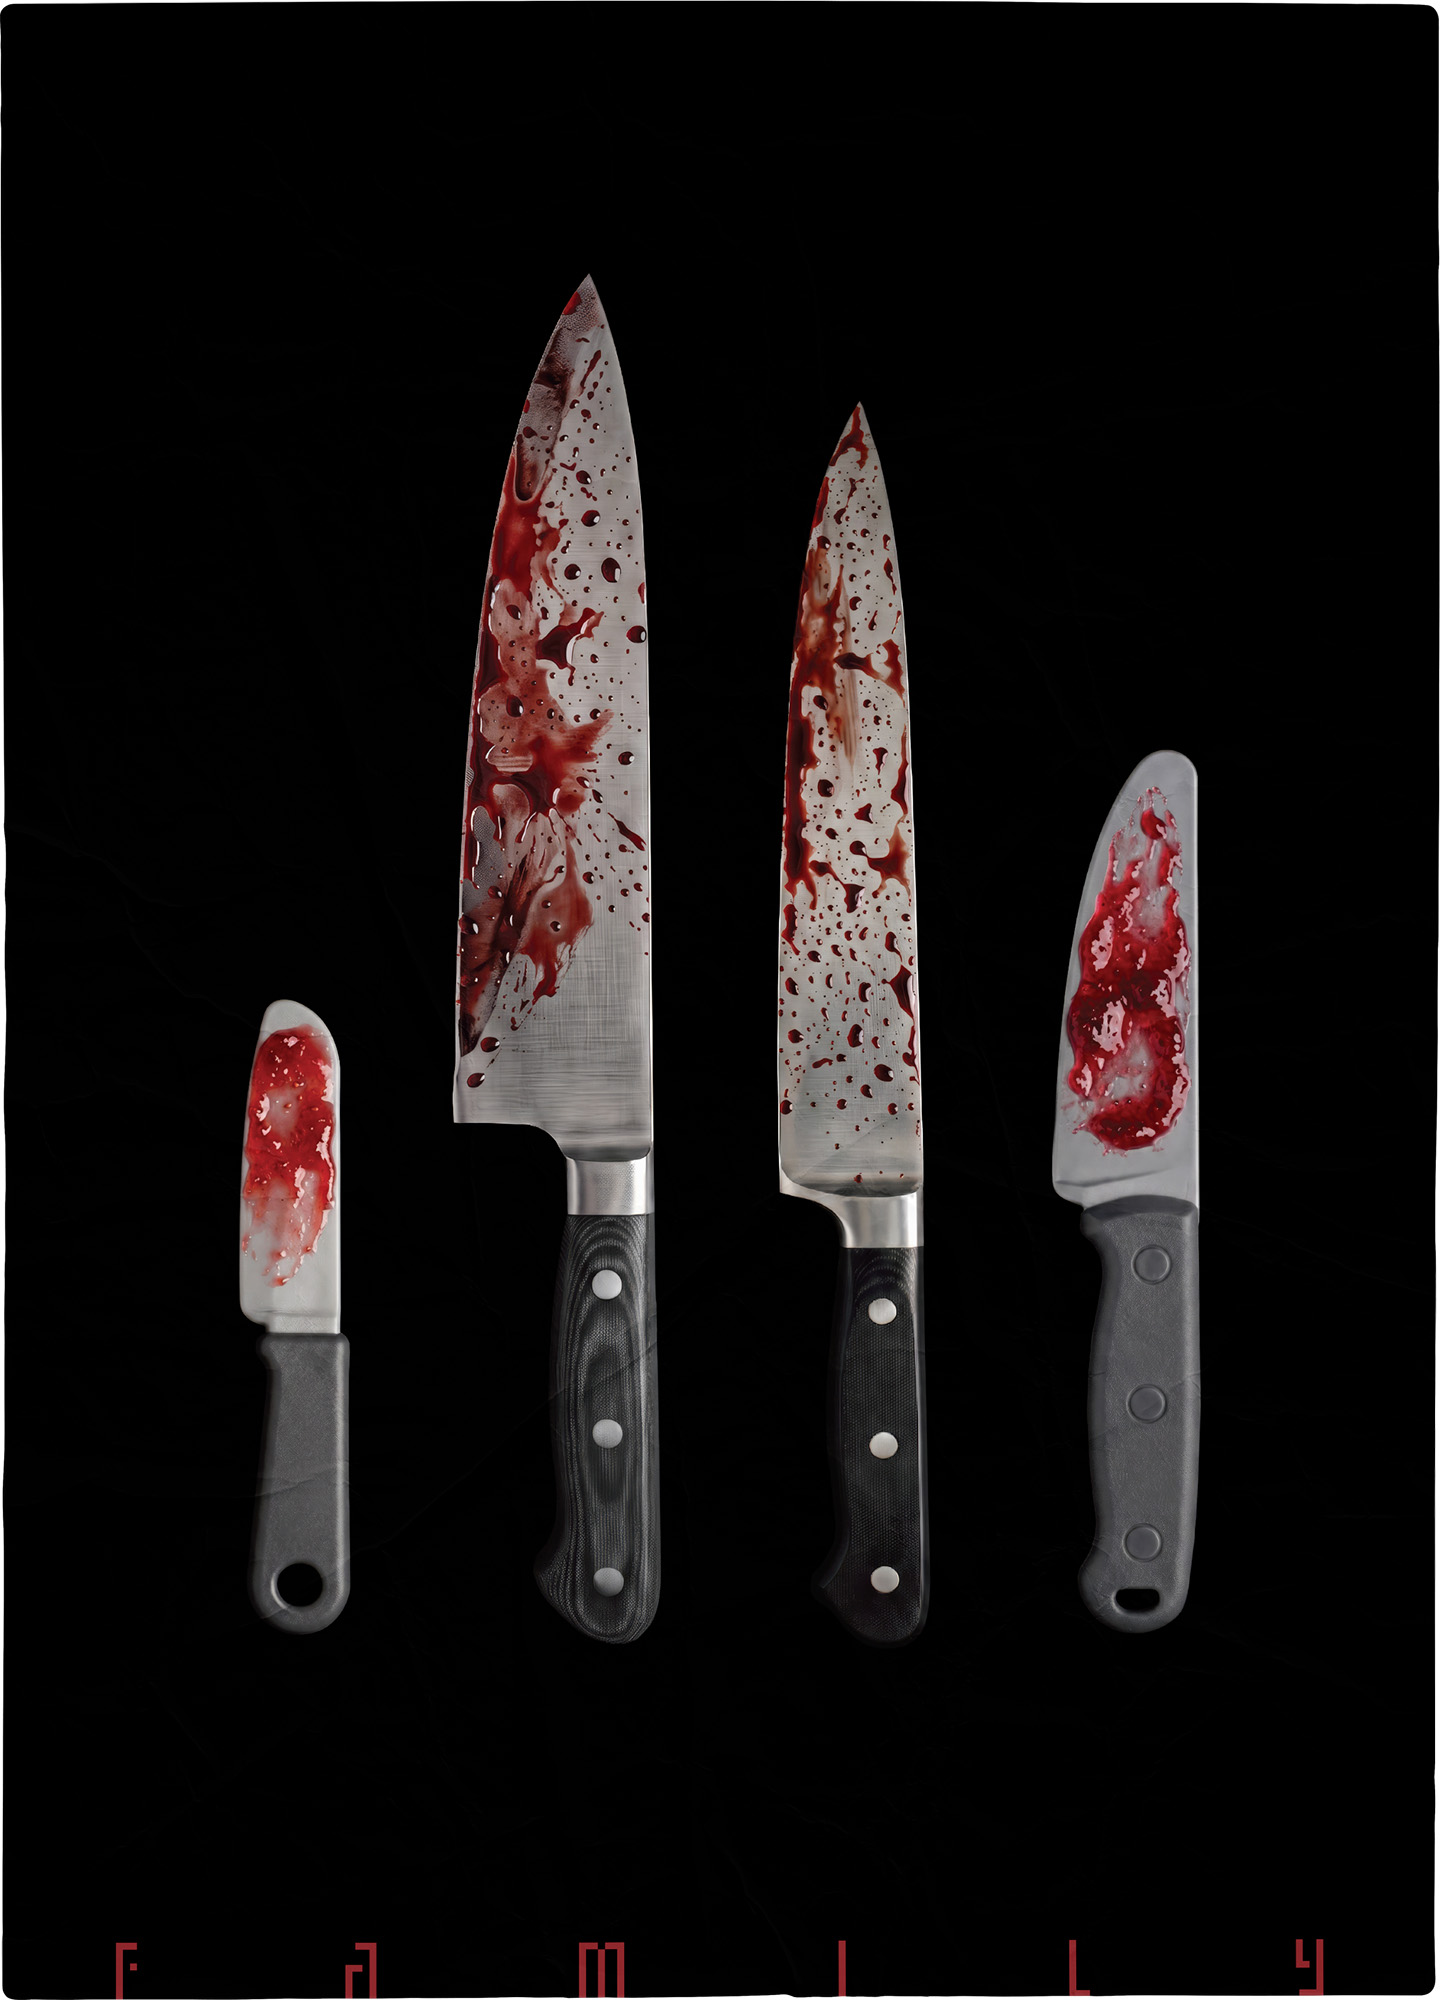
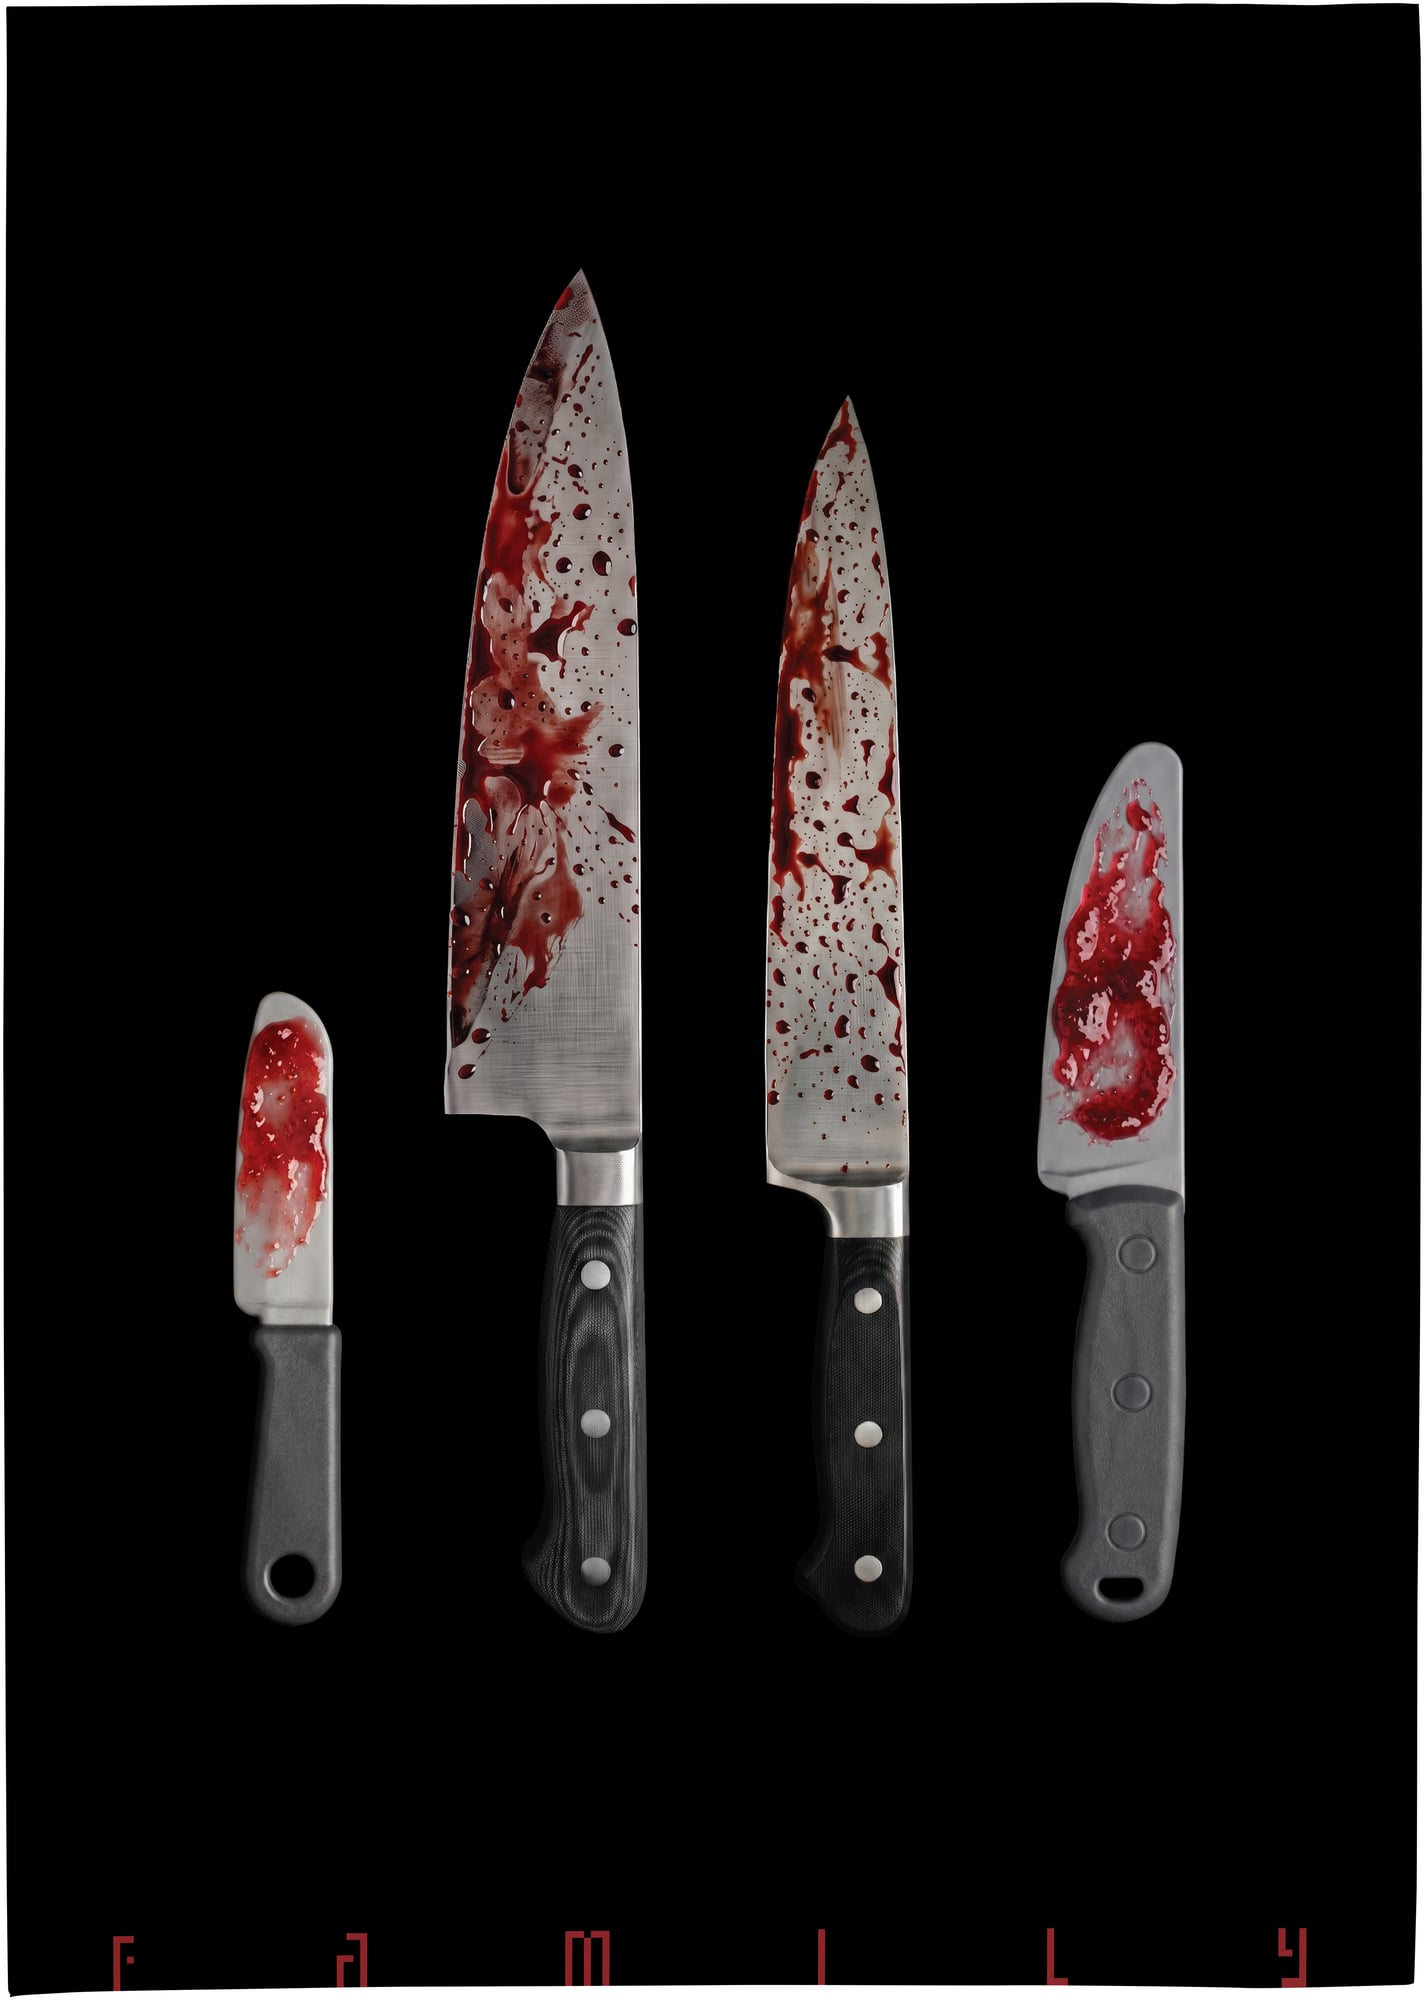
feat: optimize poster images, update poster gallery, fix canvas color issues and performance

diff --git a/data/projects.js b/data/projects.js
@@ -154,7 +154,7 @@ export const projects = [
         slug: 'post1',
         date: '2025',
         image: '/images/Poster/1_FragmentsOfLife/FragmentsOfLife_Thumbnail_Poster_GIF.gif',
-        colSpan: 4,
+        colSpan: 12,
         isFullWidth: false,
         longDescription: 'Commissioned by the Bilkent Fine Arts department, this project involved developing a visual identity that symbolizes the fragments of human experience. The resulting series of posters maintains a unified identity while showcasing various interpretations. This was a collaborative project created by Melih Uçan, Reyyan Fidan, Erdem Bozdemir, and Yavuz Dağdelen.',
         details: [
@@ -164,37 +164,18 @@ export const projects = [
         ]
     },
     {
-        id: 9,
-        title: 'Gra.Typog Society Event Posters',
+        id: 20,
+        title: 'Szymon Szymankiewicz Poster Design Workshop',
         category: 'Poster',
-        description: 'Visual Communication and Engagement',
-        slug: 'post2',
-        date: '2024-2025',
-        image: '/images/Poster/2_Club/Club_Thumbnail_Poster_GIF.gif',
-        colSpan: 4,
-        longDescription: 'Created for the Bilkent Graphic Design and Typography Society, these posters were designed to maximize event attendance through attention-grabbing visuals. To effectively attract attention from a distance, the series uses bold typography and minimalist layouts, delivering clear information through simplicity often developed in short timeframes.',
-        details: [
-            { type: 'image', src: '/images/Poster/2_Club/Club1.jpg', isFullscreen: false },
-            { type: 'image', src: '/images/Poster/2_Club/Club2_EXTENDED.jpg', isFullscreen: true },
-        ]
-    },
-    {
-        id: 10,
-        title: 'Sibel Egemen Jazz Concert',
-        category: 'Poster',
-        description: 'Typographic Poster Project',
-        slug: 'post3',
+        description: 'Bilkent University FADA',
+        slug: 'szymon',
         date: '2025',
-        image: '/SibelEgemenUpdated.jpg',
+        image: '/images/Poster/Szymon_Poster.jpg',
         colSpan: 4,
         clickable: false,
-        longDescription: 'Developed as part of a typographic course assignment, this poster pays tribute to artist Sibel Egemen. The design captures a nostalgic atmosphere that reflects her musical identity, combining visual depth with a commitment to simplicity.',
-        details: [
-            { type: 'image', src: '/images/Poster/3_SibelEgemen/SibelEgemen1.jpg', isFullscreen: false },
-        ]
+        longDescription: 'Workshop poster designed for Szymon Szymankiewicz\'s Poster Design Workshop at Bilkent University.',
+        details: []
     },
-
-    // New Social Propaganda Posters
     {
         id: 18,
         title: 'Family',
@@ -202,7 +183,7 @@ export const projects = [
         description: 'Social Propaganda Poster',
         slug: 'family',
         date: '2025',
-        image: '/Family.jpg',
+        image: '/images/Poster/Family_Poster.jpg',
         colSpan: 4,
         clickable: false,
         longDescription: 'Social propaganda poster titled "Family".',
@@ -215,7 +196,7 @@ export const projects = [
         description: 'Social Propaganda Poster',
         slug: 'together',
         date: '2025',
-        image: '/Together.jpg',
+        image: '/images/Poster/Together_Poster.jpg',
         colSpan: 4,
         clickable: false,
         longDescription: 'Social propaganda poster titled "Together".',

diff --git a/scripts/optimize_posters.js b/scripts/optimize_posters.js
@@ -1,0 +1,72 @@
+const sharp = require('sharp');
+const path = require('path');
+const fs = require('fs');
+
+const posterDir = path.join(__dirname, '../public/images/Poster');
+const publicDir = path.join(__dirname, '../public');
+
+const posters = [
+  {
+    src: 'Family_Poster.png',
+    dest: 'Family_Poster.jpg',
+    publicDest: 'Family.jpg',
+  },
+  {
+    src: 'Together_Poster.png',
+    dest: 'Together_Poster.jpg',
+    publicDest: 'Together.jpg',
+  },
+  {
+    src: 'Syzmon_Poster.png',
+    dest: 'Szymon_Poster.jpg',
+    publicDest: 'Szymon.jpg',
+  },
+];
+
+async function optimizePosters() {
+  for (const item of posters) {
+    const inputPath = path.join(posterDir, item.src);
+    const outputPath = path.join(posterDir, item.dest);
+    const publicOutputPath = path.join(publicDir, item.publicDest);
+
+    if (!fs.existsSync(inputPath)) {
+      console.log(`Source file not found: ${inputPath}`);
+      continue;
+    }
+
+    const origStat = fs.statSync(inputPath);
+    console.log(`Optimizing ${item.src} (${(origStat.size / 1024 / 1024).toFixed(2)} MB)...`);
+
+    // Max 2000px from one side, JPEG format, quality 85, progressive
+    const pipeline = sharp(inputPath)
+      .resize({
+        width: 2000,
+        height: 2000,
+        fit: 'inside',
+        withoutEnlargement: true,
+      })
+      .flatten({ background: '#ffffff' })
+      .jpeg({
+        quality: 85,
+        progressive: true,
+        mozjpeg: true,
+      });
+
+    await pipeline.toFile(outputPath);
+    const newStat = fs.statSync(outputPath);
+    const meta = await sharp(outputPath).metadata();
+    console.log(`Saved ${item.dest}: ${meta.width}x${meta.height}, ${(newStat.size / 1024).toFixed(1)} KB (-${((1 - newStat.size / origStat.size) * 100).toFixed(1)}%)`);
+
+    // Also copy / save to publicDir for fallback
+    fs.copyFileSync(outputPath, publicOutputPath);
+
+    // Remove the raw PNG
+    fs.unlinkSync(inputPath);
+    console.log(`Removed raw ${item.src}`);
+  }
+}
+
+optimizePosters().catch(err => {
+  console.error('Optimization error:', err);
+  process.exit(1);
+});

diff --git a/app/work/[id]/page.js b/app/work/[id]/page.js
@@ -156,6 +156,7 @@ export default async function WorkDetails({ params }) {
                                             frameBorder="0"
                                             allow="autoplay; fullscreen; picture-in-picture; clipboard-write; encrypted-media"
                                             referrerPolicy="strict-origin-when-cross-origin"
+                                            loading="lazy"
                                             style={{ position: 'absolute', top: 0, left: 0, width: '100%', height: '100%' }}
                                             title={item.title || project.title}
                                         />
@@ -176,6 +177,7 @@ export default async function WorkDetails({ params }) {
                                             frameBorder="0"
                                             allow="autoplay; fullscreen; picture-in-picture; clipboard-write; encrypted-media"
                                             referrerPolicy="strict-origin-when-cross-origin"
+                                            loading="lazy"
                                             style={{ position: 'absolute', top: 0, left: 0, width: '100%', height: '100%' }}
                                             title={item.title || project.title}
                                         />

diff --git a/components/NavbarWrapper.js b/components/NavbarWrapper.js
@@ -22,10 +22,30 @@ export default function NavbarWrapper() {
         return () => observer.disconnect();
     }, []);
 
-    // Ana sayfa veya 404 için transparent arka plan
+    // Ana sayfa veya 404 için transparent arka plan ve sarı tema
     const isHome = pathname === '/';
+    const isYellow = isHome || isNotFound;
     const theme = 'light';
-    const transparent = isHome || isNotFound;
+    const transparent = isYellow;
+
+    useEffect(() => {
+        if (isYellow) {
+            document.documentElement.classList.add('is-yellow-page');
+            document.body.classList.add('is-yellow-page');
+        } else {
+            document.documentElement.classList.remove('is-yellow-page');
+            document.body.classList.remove('is-yellow-page');
+        }
+
+        // Dynamically update theme-color meta tag for mobile browser UI (Safari / Chrome)
+        let metaTheme = document.querySelector('meta[name="theme-color"]');
+        if (!metaTheme) {
+            metaTheme = document.createElement('meta');
+            metaTheme.setAttribute('name', 'theme-color');
+            document.head.appendChild(metaTheme);
+        }
+        metaTheme.setAttribute('content', isYellow ? '#ffd400' : '#ffffff');
+    }, [isYellow]);
 
     return <Navbar theme={theme} transparent={transparent} />;
 }

diff --git a/app/layout.js b/app/layout.js
@@ -9,13 +9,21 @@ export const metadata = {
   description: "Portfolio and Blog.",
 };
 
+export const viewport = {
+  themeColor: "#ffffff",
+  width: "device-width",
+  initialScale: 1,
+};
+
 export default function RootLayout({ children }) {
   return (
     <html lang="en">
       <head>
+        <link rel="preconnect" href="https://use.typekit.net" crossOrigin="anonymous" />
+        <link rel="preconnect" href="https://p.typekit.net" crossOrigin="anonymous" />
         <link rel="stylesheet" href="https://use.typekit.net/foj2kuj.css" />
       </head>
-      <body className="flex flex-col min-h-screen">
+      <body className="flex flex-col min-h-screen min-h-dvh bg-white">
         {/* Google Analytics */}
         <Script
           src={`https://www.googletagmanager.com/gtag/js?id=${GA_MEASUREMENT_ID}`}

diff --git a/app/globals.css b/app/globals.css
@@ -5,11 +5,10 @@
   --foreground: #171717;
 }
 
-@media (prefers-color-scheme: dark) {
-  :root {
-    --background: #0a0a0a;
-    --foreground: #ededed;
-  }
+/* Force light color scheme and white canvas */
+html {
+  color-scheme: light;
+  background-color: #ffffff;
 }
 
 /* Yatay taşmayı engelle */
@@ -21,11 +20,17 @@ body {
 
 body {
   color: var(--foreground);
-  background: var(--background);
+  background-color: var(--background);
   font-family: area-normal, sans-serif;
   font-weight: 700;
   font-style: normal;
   letter-spacing: -0.025em;
+}
+
+/* Yellow background for home page and 404 page */
+html.is-yellow-page,
+body.is-yellow-page {
+  background-color: #ffd400 !important;
 }
 
 /* Sadece küçük 'a' harfi için ss02 */

diff --git a/app/about/page.js b/app/about/page.js
@@ -16,7 +16,7 @@ export default function About() {
                 {/* Image Section - Cols 1-4 on Desktop, Full on Mobile */}
                 <div className="w-full col-span-12 lg:col-span-4 mb-8 lg:mb-0">
                     {image?.src ? (
-                        <img className="w-full aspect-square object-cover" src={image.src} alt={image.alt || 'Portrait'} />
+                        <img className="w-full aspect-square object-cover" src={image.src} alt={image.alt || 'Portrait'} decoding="async" />
                     ) : (
                         <div className="w-full aspect-square bg-gray-400"></div>
                     )}

diff --git a/components/Footer.js b/components/Footer.js
@@ -3,7 +3,7 @@ import React from 'react';
 
 export default function Footer() {
     return (
-        <footer className="w-full bg-white text-black pb-12 mt-auto font-extrabold px-5 md:px-[5%]">
+        <footer className="w-full bg-white text-black pb-12 pb-safe mt-auto font-extrabold px-5 md:px-[5%]">
             <div className="border-t border-black pt-6"></div>
             <div className="flex flex-row justify-between items-stretch gap-4 md:gap-8">
                 {/* Left Side: Copyright & Location */}

diff --git a/components/ProjectCard.js b/components/ProjectCard.js
@@ -10,6 +10,8 @@ export default function ProjectCard({ project, className = "" }) {
                     <img
                         src={project.image}
                         alt={project.title}
+                        loading="lazy"
+                        decoding="async"
                         className={`w-full h-auto object-cover transition-opacity duration-500 block ${isInteractive ? 'group-hover:opacity-90' : 'opacity-90'}`}
                     />
                 ) : (

diff --git a/components/BlogPostCard.js b/components/BlogPostCard.js
@@ -10,6 +10,7 @@ export default function BlogPostCard({ post }) {
                         src={post.heroImage}
                         alt={post.title}
                         fill
+                        sizes="(max-width: 768px) 100vw, 33vw"
                         className="object-cover transition-opacity duration-500 group-hover:opacity-90"
                     />
                 )}
